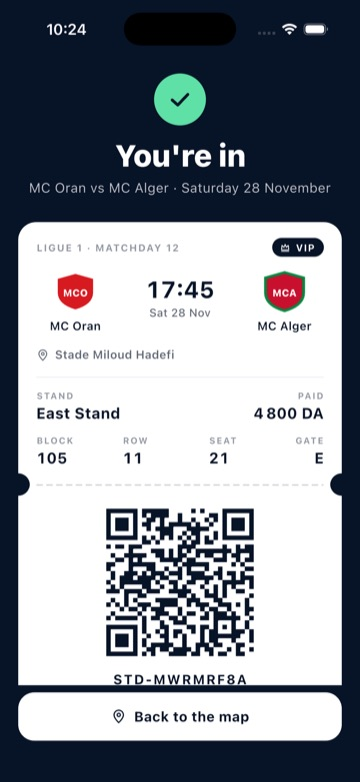
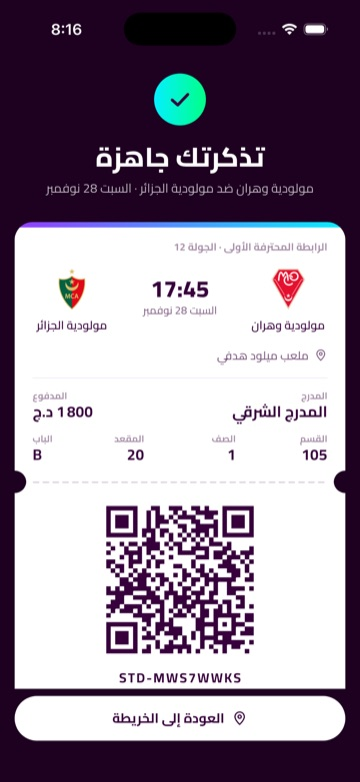
Docs: screenshots with the surroundings and the view from the seat
Retaken on the iOS simulator in Arabic: intro over the city, map, stand,
block, the live view from the seat (replaces the old seat sheet),
checkout and ticket.

diff --git a/README.md b/README.md
@@ -19,9 +19,9 @@ mocked behind repository and payment interfaces (see
 |---|---|---|---|
 | ![Intro](docs/screenshots/1-intro.jpg) | ![Map](docs/screenshots/2-map.jpg) | ![Stand](docs/screenshots/3-stand.jpg) | ![Block](docs/screenshots/4-block.jpg) |
 
-| Seat sheet | Checkout | Ticket |
+| View from the seat | Checkout | Ticket |
 |---|---|---|
-| ![Seat sheet](docs/screenshots/5-seat-sheet.jpg) | ![Checkout](docs/screenshots/6-checkout.jpg) | ![Ticket](docs/screenshots/7-ticket.jpg) |
+| ![View from the seat](docs/screenshots/5-seat-view.jpg) | ![Checkout](docs/screenshots/6-checkout.jpg) | ![Ticket](docs/screenshots/7-ticket.jpg) |
 
 ## The flow
 
